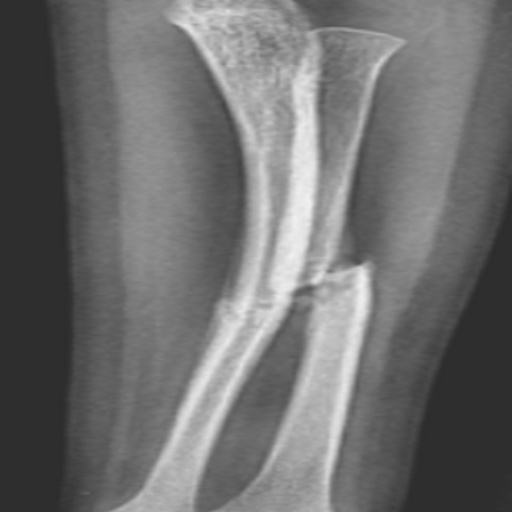
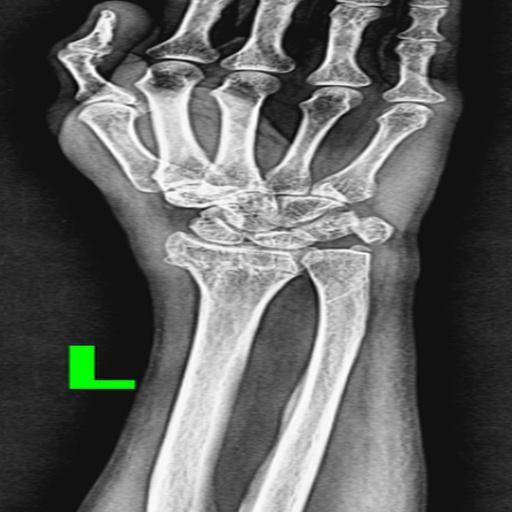
finalización del proyecto y cambios de ventana en streamlit

diff --git a/app.py b/app.py
@@ -5,50 +5,144 @@ from PIL import Image
 from predict_gender import predict_gender
 from predict_fracture import predict_fracture
 
-# Título
-st.title("Sistema Inteligente de Análisis Óseo")
+# ==========================================
+# CONFIGURACIÓN
+# ==========================================
 
-st.write(
-    "Sube una radiografía para analizar:"
+st.set_page_config(
+    page_title="Programa de estudio de huesos",
+    layout="wide"
 )
 
-st.write("- Sexo biológico")
-st.write("- Estado del hueso (fractura o sano)")
+# ==========================================
+# ESTILOS
+# ==========================================
 
-# Upload
-uploaded_file = st.file_uploader(
-    "Selecciona una radiografía",
-    type=["png","jpg","jpeg"]
-)
+st.markdown("""
+<style>
 
-# Si sube imagen
-if uploaded_file is not None:
+.stApp {
+    background-color: #d9d9d9;
+}
 
-    image = Image.open(uploaded_file)
+/* HEADER */
+.header {
+    background-color: #67c7e3;
+    padding: 25px;
+    border-radius: 12px;
+    margin-bottom: 20px;
+}
 
-    # Mostrar imagen
-    st.image(
-        image,
-        caption="Radiografía subida",
-        use_container_width=True
+.header h1 {
+    color: black;
+    font-size: 40px;
+    margin: 0;
+}
+
+/* CONTENEDORES */
+[data-testid="stVerticalBlock"] > div:has(.custom-box) {
+    background-color: #b7dceb;
+    padding: 20px;
+    border-radius: 15px;
+}
+
+/* RESULTADOS */
+.result-box {
+    background-color: #76c5df;
+    padding: 25px;
+    border-radius: 15px;
+    margin-bottom: 25px;
+}
+
+</style>
+""", unsafe_allow_html=True)
+
+# ==========================================
+# HEADER
+# ==========================================
+
+st.markdown("""
+<div class="header">
+    <h1>Programa de estudio de huesos</h1>
+</div>
+""", unsafe_allow_html=True)
+
+# ==========================================
+# COLUMNAS
+# ==========================================
+
+left_col, right_col = st.columns(2)
+
+# ==========================================
+# PANEL IZQUIERDO
+# ==========================================
+
+with left_col:
+
+    st.markdown('<div class="custom-box">', unsafe_allow_html=True)
+
+    st.subheader("Radiografía")
+
+    uploaded_file = st.file_uploader(
+        "Selecciona una imagen",
+        type=["png", "jpg", "jpeg"]
     )
 
-    # Guardar temporalmente
-    temp_path = "temp_image.png"
+    if uploaded_file is not None:
 
-    image.save(temp_path)
+        image = Image.open(uploaded_file)
 
-    # Predicción género
-    gender_result = predict_gender(temp_path)
+        st.image(
+            image,
+            use_container_width=True
+        )
 
-    # Predicción fractura
-    fracture_result = predict_fracture(temp_path)
+        temp_path = "temp_image.png"
 
-    # Mostrar resultados
-    st.success(
-        f"Sexo biológico: {gender_result}"
-    )
+        image.save(temp_path)
 
-    st.warning(
-        f"Estado del hueso: {fracture_result}"
-    )
+        gender_result = predict_gender(temp_path)
+
+        fracture_result = predict_fracture(temp_path)
+
+    else:
+
+        gender_result = "---"
+
+        fracture_result = "---"
+
+        st.info("Sube una radiografía para comenzar")
+
+    st.markdown('</div>', unsafe_allow_html=True)
+
+# ==========================================
+# PANEL DERECHO
+# ==========================================
+
+with right_col:
+
+    st.markdown('<div class="custom-box">', unsafe_allow_html=True)
+
+    # RESULTADO SEXO
+    with st.container():
+
+        st.markdown('<div class="result-box">', unsafe_allow_html=True)
+
+        st.subheader("Clasificación de sexo biológico")
+
+        st.success(gender_result)
+
+        st.markdown('</div>', unsafe_allow_html=True)
+
+    # RESULTADO FRACTURA
+    with st.container():
+
+        st.markdown('<div class="result-box">', unsafe_allow_html=True)
+
+        st.subheader("Estado del hueso")
+
+        st.warning(fracture_result)
+
+        st.markdown('</div>', unsafe_allow_html=True)
+
+    st.markdown('</div>', unsafe_allow_html=True)

diff --git a/predict_gender.py b/predict_gender.py
@@ -5,9 +5,7 @@ from torchvision import transforms
 from PIL import Image
 
 # Dispositivo
-device = torch.device(
-    "cuda" if torch.cuda.is_available() else "cpu"
-)
+device = torch.device("cpu")
 
 # Arquitectura CNN
 class CNN(nn.Module):

diff --git a/predict_fracture.py b/predict_fracture.py
@@ -4,9 +4,7 @@ import torch.nn as nn
 from torchvision import transforms
 from PIL import Image 
 
-device = torch.device(
-    "cuda" if torch.cuda.is_available() else "cpu"
-)
+device = torch.device("cpu")
 
 class CNN(nn.Module):
 
